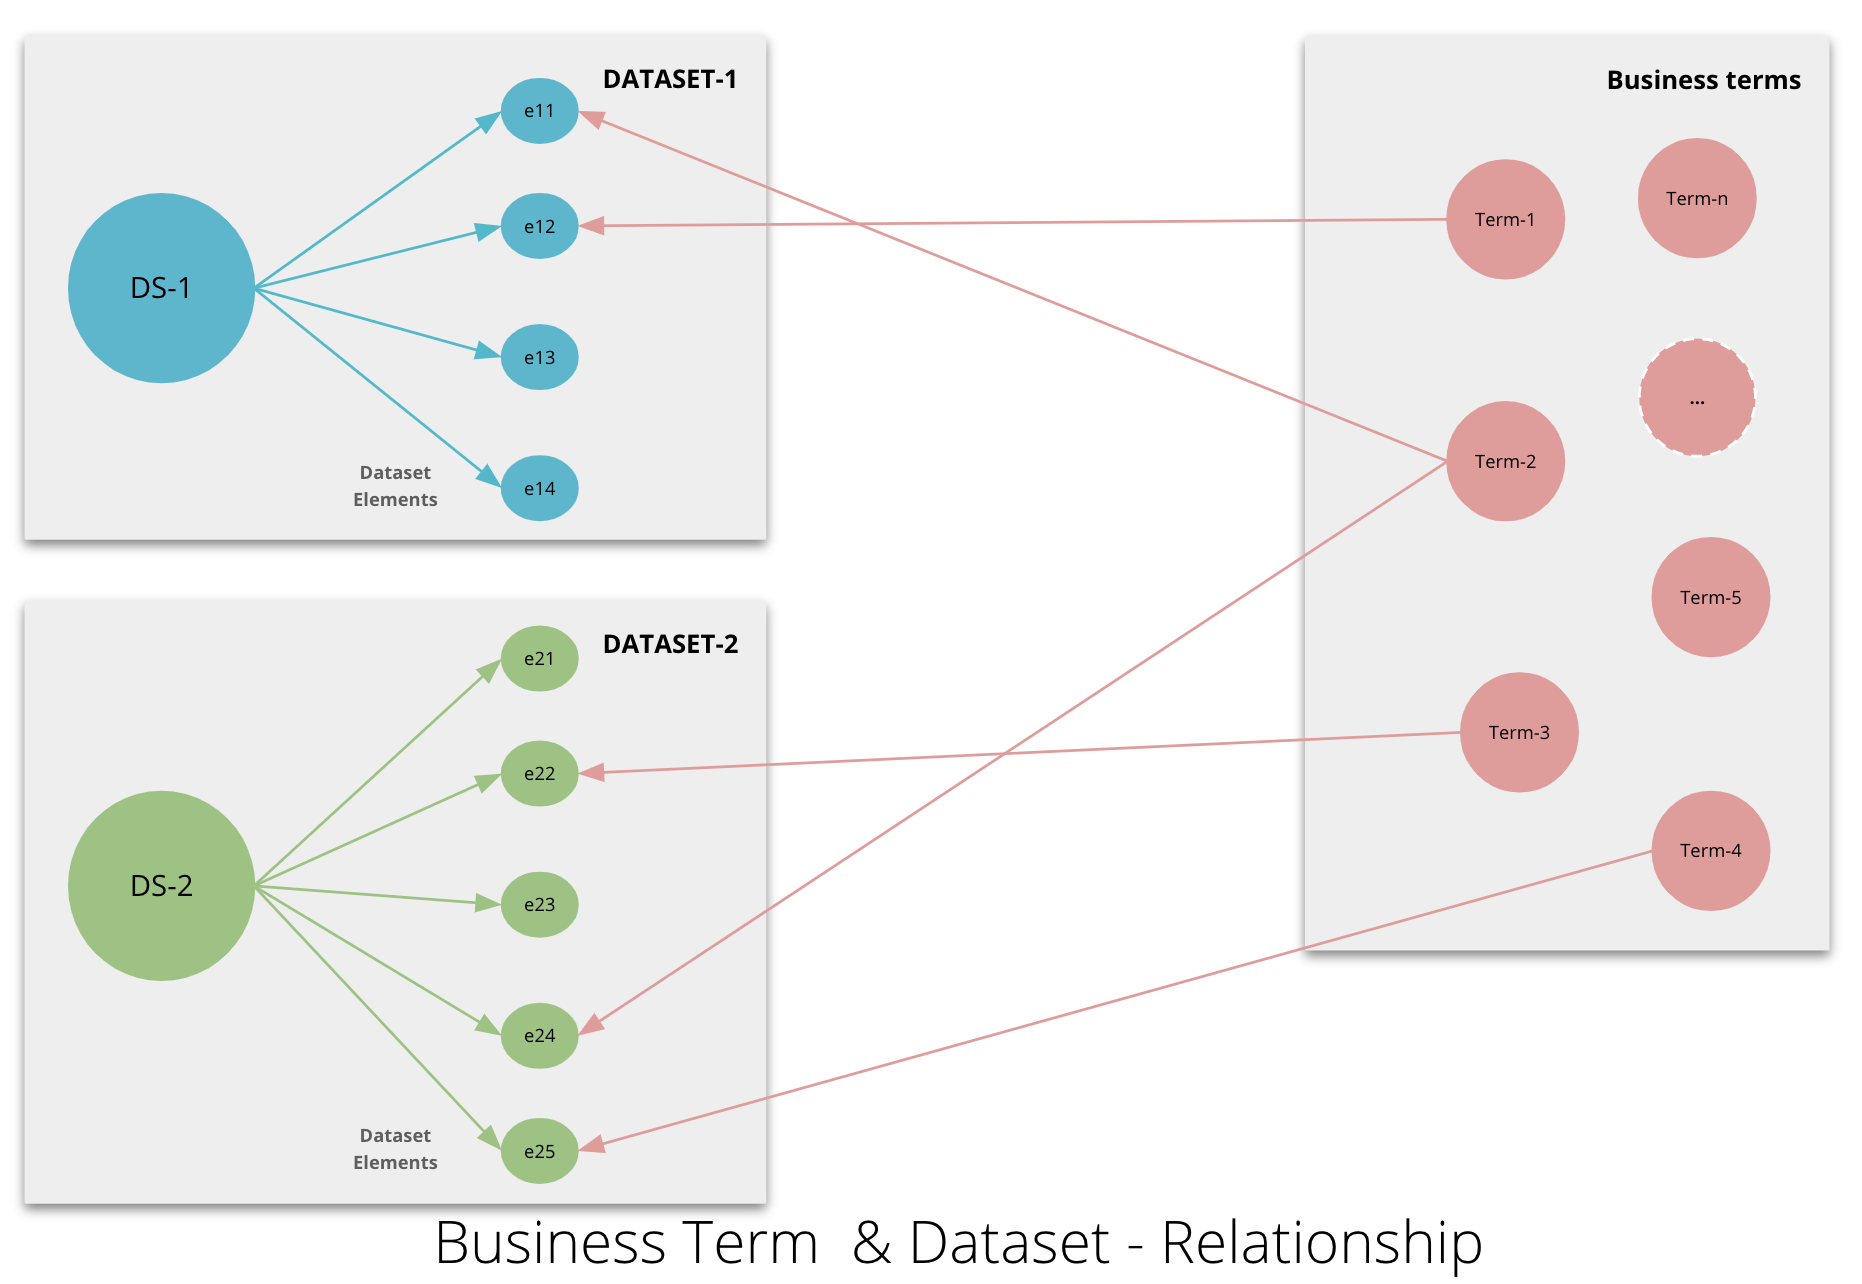
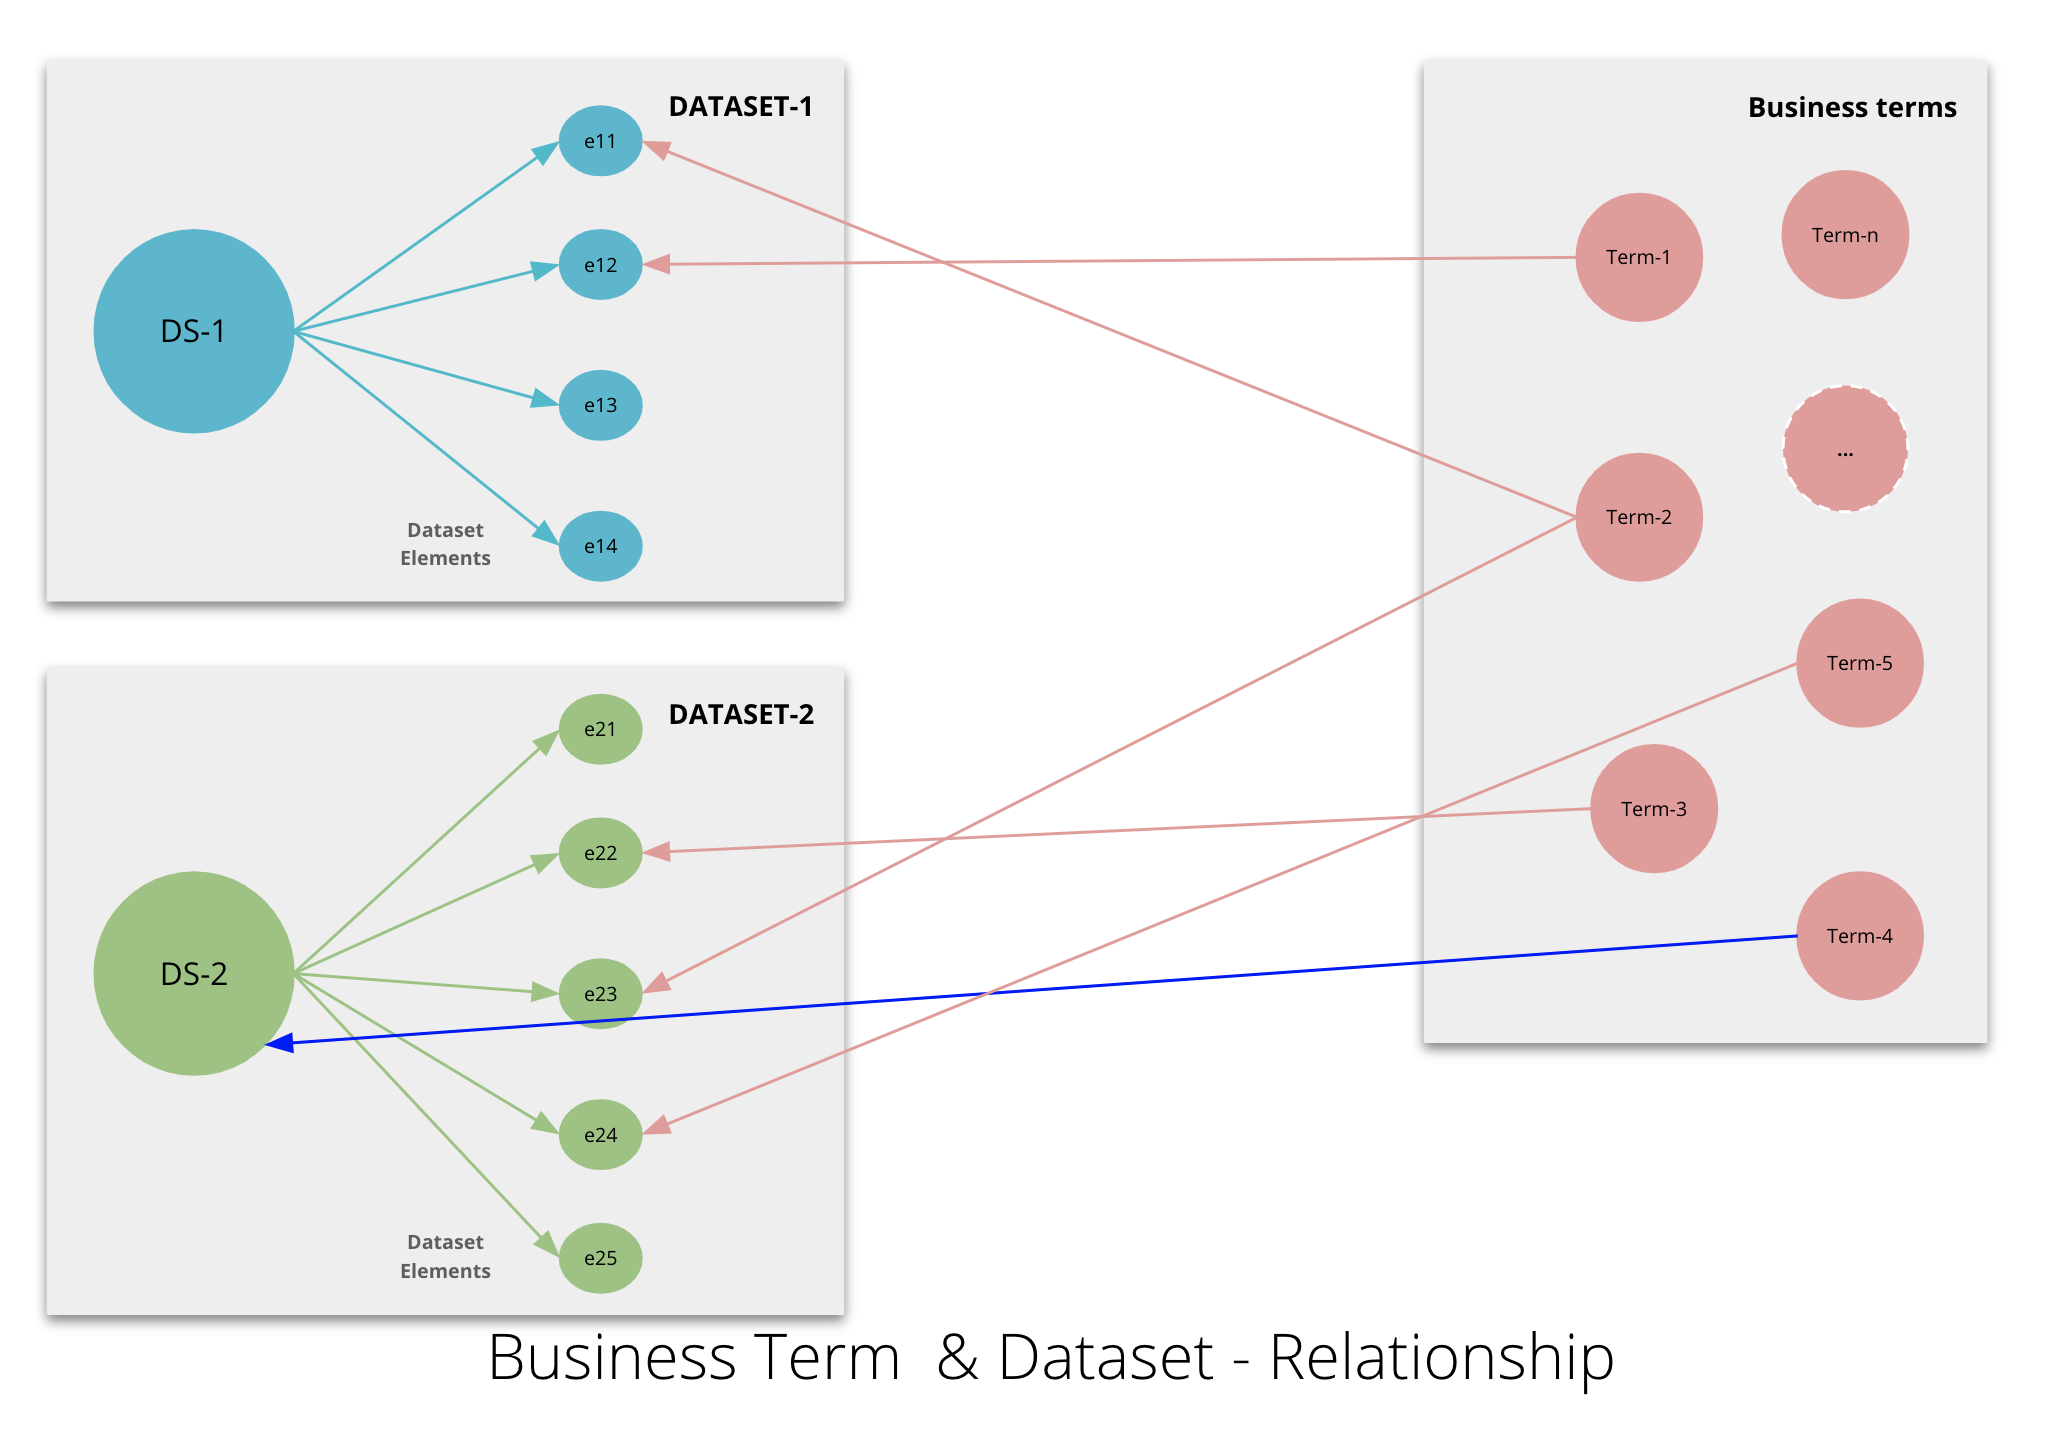
Incrporated the review comments and Discussion Feedck

diff --git a/docs/rfc/active/business_glossary/README.md b/docs/rfc/active/business_glossary/README.md
@@ -51,12 +51,15 @@ Business terms can be linked to specific entities/tables and columns in a data a
 ### Stiching Together
 
 
-Business Glossary will be a first class entity where one can define the business terms and this will be similar to entities like Dataset, CorporateUser etc.
-Then extending the Dataset's aspect SchemaMetadata, that will be extending the SchemaField model to capture urn of the business term (optional).
+Business Glossary will be a first class entity where one can define the `BusinessTerm`s and this will be similar to entities like Dataset, CorporateUser etc. Business Term can be linked to other entities like Dataset, DatasetField. In future Business terms can be linked to Dashboards, Metrics etc
+
 
 ![high level design](business_glossary_rel.png)
 
-The above diagram illustrates how business glossaries will be connected to other entities. Business terms are modelled as BusinessTerm entities and example business terms are `Term-1`, `Term-2`, .. `Term-n`. In the above diagram from the dataset (`DS-1`) element `e11` is linked to business term `Term-2` and `e12` is linked to `Term-1`. At the same time from Dataset (`DS-2`) element `e24` linked the business term `Term-2`, `e22` with `Term-3` and `e24` with `Term-4`.
+The above diagram illustrates how Business Terms will be connected to other entities entities like Dataset, DatasetField. The above example depicts business terms are `Term-1`, `Term-2`, .. `Term-n` and how they are linked to `DatasetField` and `Dataset`. 
+Dataset (`DS-1`) fields `e11` is linked to Business Term `Term-2` and `e12` is linked to `Term-1`. 
+Dataset (`DS-2`) element `e23` linked the Business Term `Term-2`, `e22` with `Term-3` and `e24` with `Term-5`. Dataset (DS-2) is linked to business term `Term-4`
+Dataset (`DS-2`) it-self linked to Business Term `Term-4`
 
 ## Metadata Model Enhancements 
 
@@ -160,7 +163,7 @@ record BusinessTermInfo {
   /**
    * The abstracted URI such as https://spec.edmcouncil.org/fibo/ontology/FBC/FinancialInstruments/FinancialInstruments/CashInstrument.
    */
-  uri: optional sourceURI
+  sourceURI: optional uri
 
 }
 
@@ -186,69 +189,6 @@ record OwnedBy includes BaseRelationship {
    * The type of the ownership
    */
   type: OwnershipType
-}
-```
-
-### Dataset Field related Changes/enhancements
-
-Defining new ```DatasetFiled``` Entity
-
-```java
-record DatasetFieldEntity includes BaseEntity {
-
-  /**
-   * Urn for the dataset
-   */
-  urn: DatasetFieldUrn
-
-  /**
-   * Dataset Field native name e.g. {db}.{table}, /dir/subdir/{name}, or {name}
-   */
-  name: optional string
-
-}
-```
-
-Proposing to replace the fieldPath with urn in the ```SchemaField```
-
-```java
-record SchemaField {
-
-  /**
-   * Flattened name of the field. Field is computed from jsonPath field. For data translation rules refer to wiki page above.
-   */
-  fieldPath: SchemaFieldPath
-
-  /**
-   * Flattened name of a field in JSON Path notation.
-   */
-  jsonPath: optional string
-
-  /**
-   * Indicates if this field is optional or nullable
-   */
-  nullable: boolean = false
-
-  /**
-   * Description
-   */
-  description: optional string
-
-  /**
-   * Platform independent field type of the field.
-   */
-  type: SchemaFieldDataType
-
-  /**
-   * The native type of the field in the dataset's platform as declared by platform schema.
-   */
-  nativeDataType: string
-
-  /**
-   * There are use cases when a field in type B references type A. A field in A references field of type B. In such cases, we will mark the first field as recursive.
-   */
-  recursive: boolean = false
-
 }
 ```
 
@@ -325,7 +265,7 @@ record RelatedTo includes BaseRelationship {
 }
 ```
 
-## Metadata graph
+## Metadata Graph
 
 This might not be a crtical requirement, but nice to have.
 
